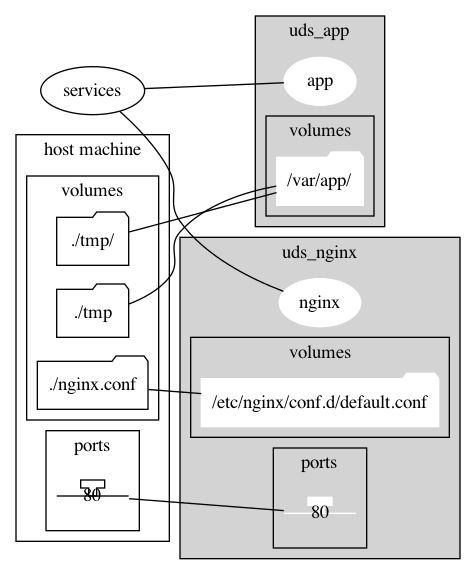
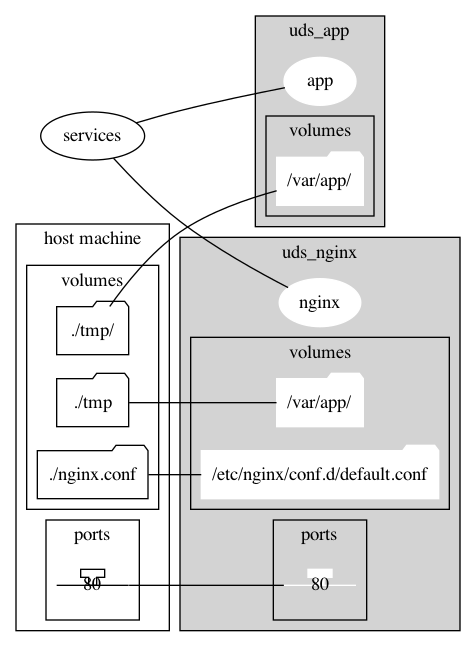
fix: #1 コンテナのvolumeの指定で同一のディレクトリがある場合に正しく可視化されない問題への対応

diff --git a/main.py b/main.py
@@ -62,18 +62,19 @@ if __name__ == '__main__':
             else:
                 print('[warning] Reccommend set container_name property.')
 
-            # volumeの設定を取得 TODO 同名node問題への対応
-            volume_dict = {}
-            host_path = []
-            container_path = []
+            # volumeの設定を取得
+            container_volume_dict = {}
             if 'volumes' in data[type][d]:
                 volumes_list = data[type][d]['volumes']
                 for v in volumes_list:
                     a = v.split(':')
-                    volume_dict[a[1]] = a[0]
-                    host_volume_dict[a[0]] = a[1]
-                    host_path.append(a[0])
-                    container_path.append(a[1])
+                    if len(a) > 1:
+                        container_volume = '{}_{}'.format(container_name, a[1])
+                        if a[0] in volumes_node:
+                            container_volume_dict[a[1]] = a[0]
+                        else:
+                            container_volume_dict[a[1]] = container_volume
+                            host_volume_dict[a[0]] = container_volume
             # networkの設定を取得
             container_networks = []
             if 'networks' in data[type][d]:
@@ -111,11 +112,16 @@ if __name__ == '__main__':
                 volume_subgraph_name = '{}_volume'.format(subgraph_name)
                 with sg.subgraph(name=volume_subgraph_name) as vsg:
                     vsg.attr(label='volumes')
-                    for p in container_path:
-                        vsg.node(p, shape='folder')
-                        if volume_dict[p] in volumes_node:
-                            g.edge(p, volume_dict[p])
-                # networksとのlinkを作成
+                    for p in container_volume_dict.keys():
+                        if container_volume_dict[p] in volumes_node:
+                            node_name = '{}_{}'.format(container_name, p)
+                            vsg.node(
+                                node_name, p, shape='folder')
+                            g.edge(node_name,
+                                   container_volume_dict[p])
+                            continue
+                        vsg.node(container_volume_dict[p], p, shape='folder')
+                # networksとのedgeを作成
                 for n in container_networks:
                     g.edge(d, n, ltail=subgraph_name)
                 # 環境変数の設定項目を記載
